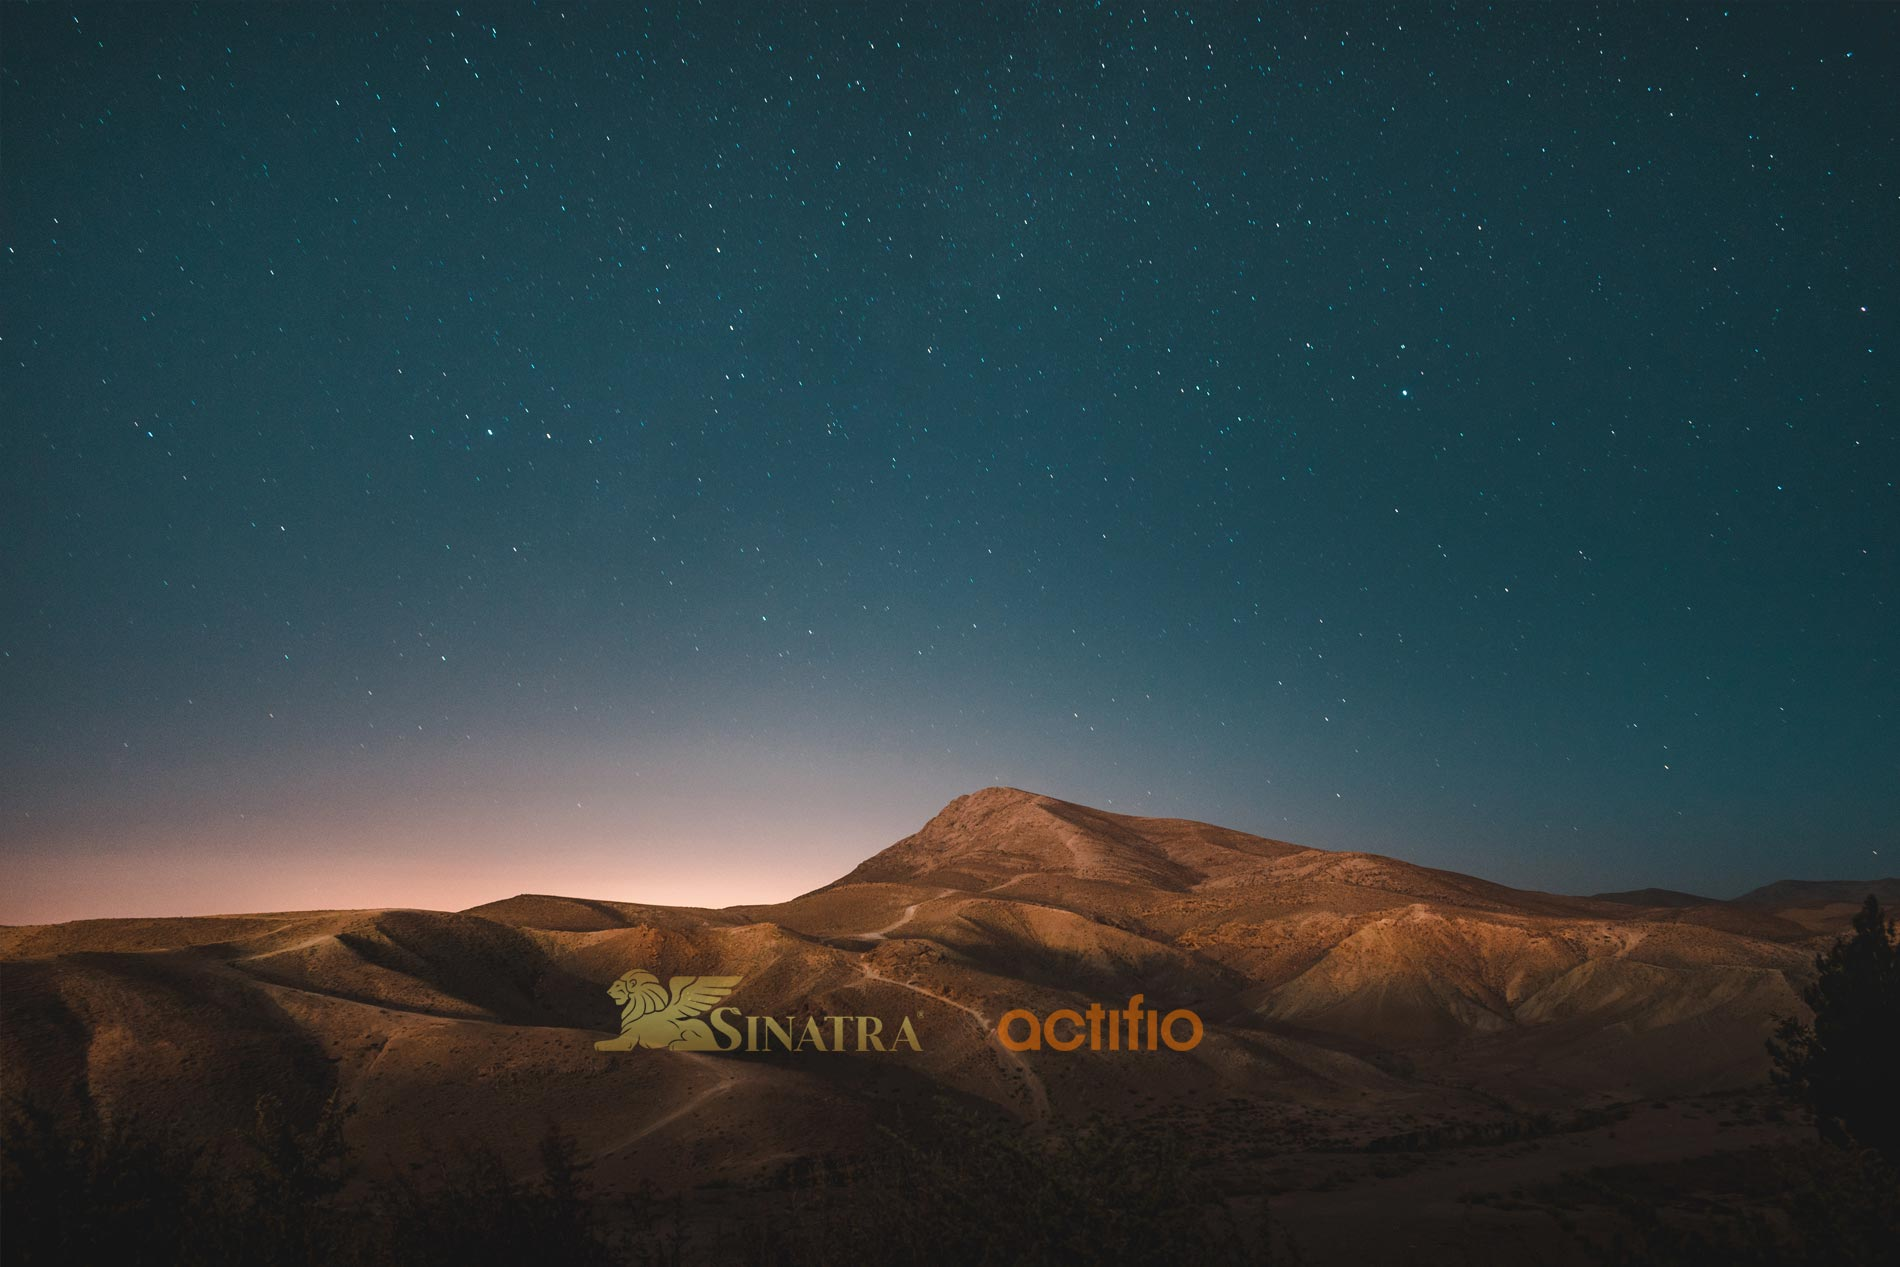
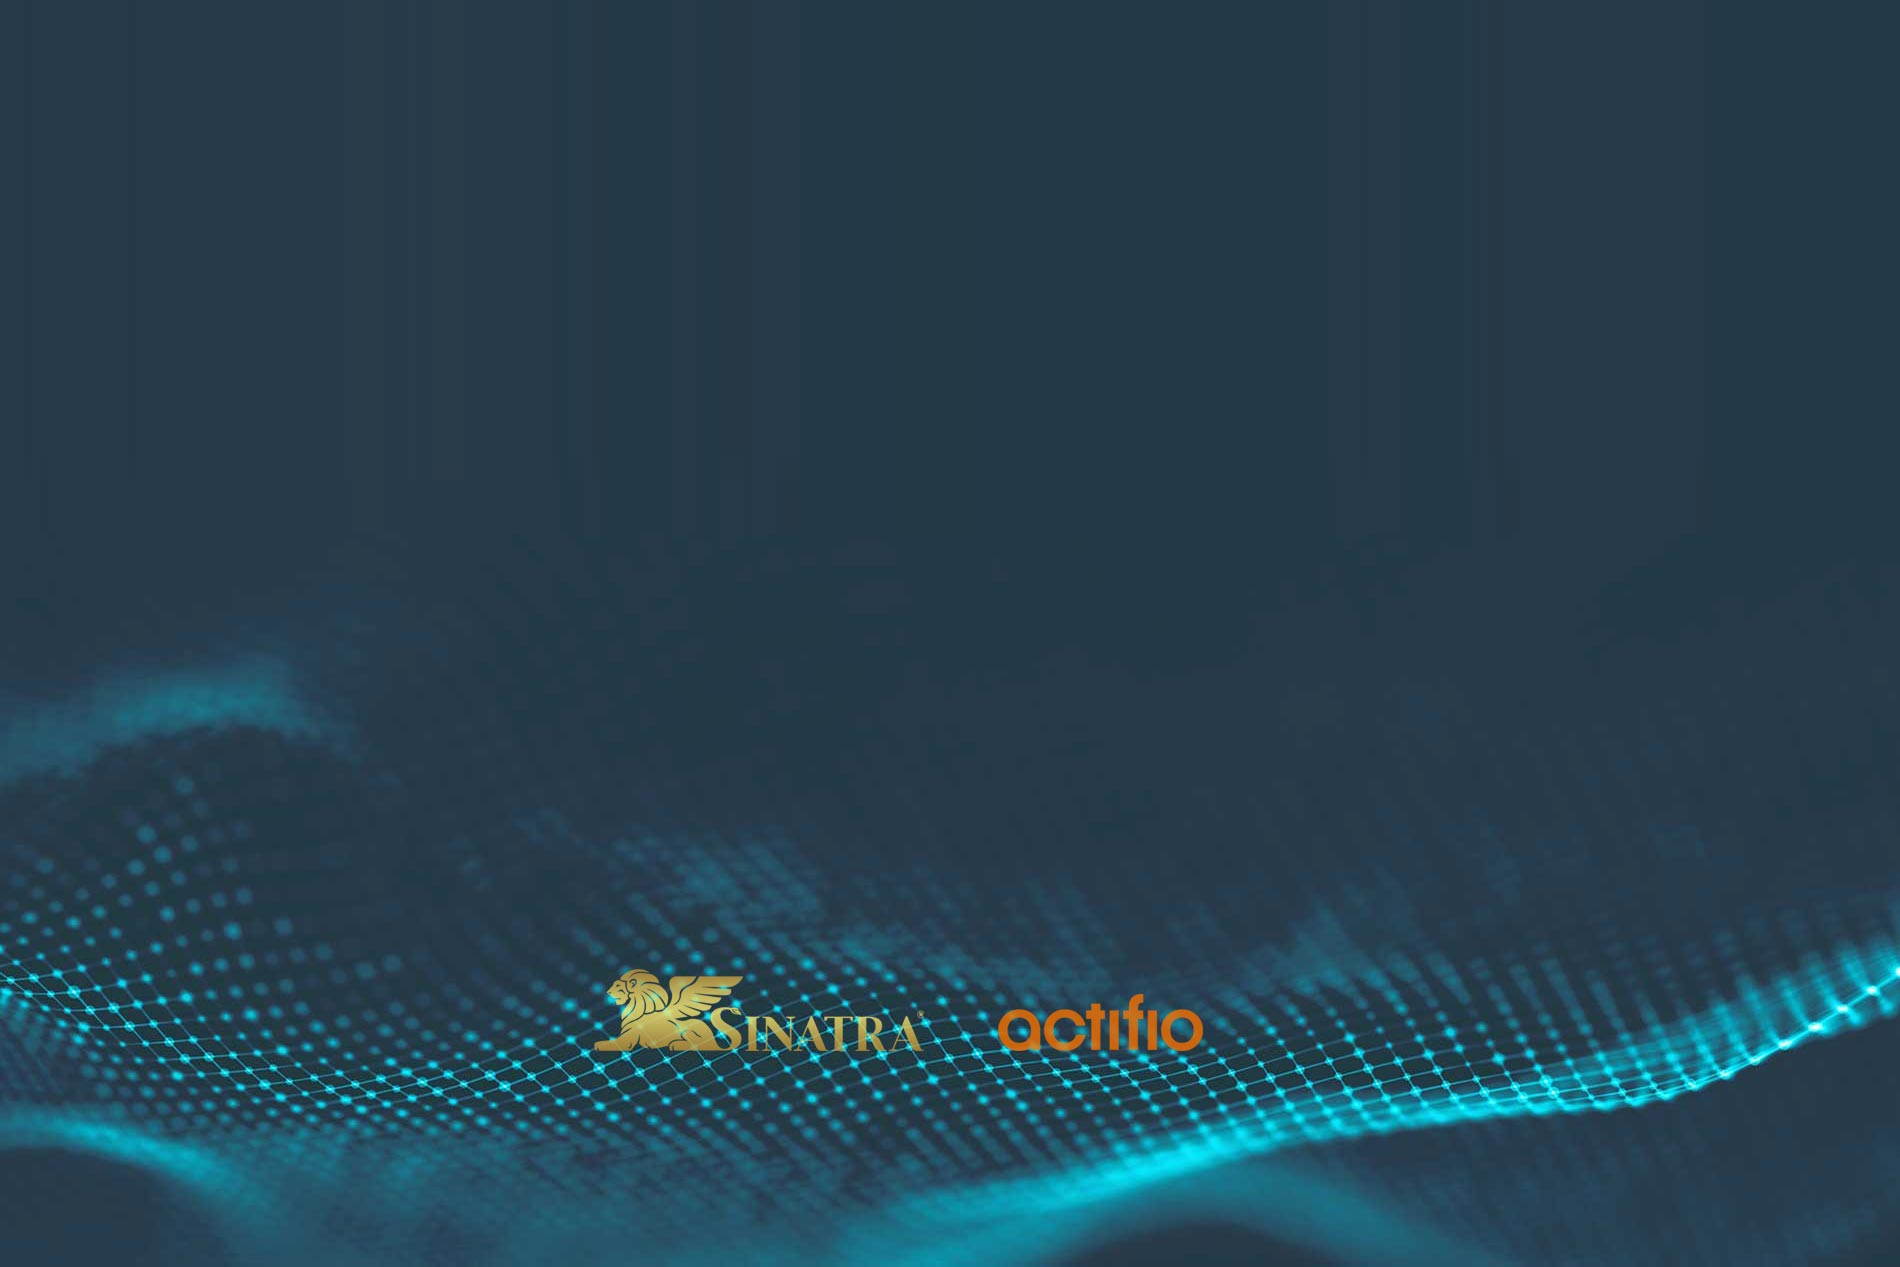
update to act

diff --git a/index.html b/index.html
@@ -71,6 +71,20 @@
         <div class="row">
           <div class="col-lg-10 mx-auto">
             <h1 class="text-uppercase">
+              <strong>Powering Multi-Cloud for Enterprise Data</strong>
+            </h1>
+            <p class="text-faded">Migrate, protect, develop, test, and analyze faster while reducing costs by 50% or more.</p>
+            <a class="btn btn-xl js-scroll-trigger" href="#update-actifio"><i class="fa fa-4x fa-chevron-down mb-3"></i></a>
+
+          </div>
+        </div>
+      </div>
+    </header>
+    <section class="bg-primary text-white text-center update-actifio" id="update-actifio">
+      <div class="container my-auto">
+        <div class="row">
+          <div class="col-lg-10 mx-auto">
+            <h1 class="text-uppercase text-center">
               <strong>Unleash<br/>the Power of Cloud</strong>
             </h1>
             <hr>
@@ -79,9 +93,10 @@
             <p class="text-faded mb-5">Data-as-a-Service solutions<br/>across all clouds from <a href="https://www.actifio.com" title="Actifio">Actifio</a> that first made it possible is putting now Middle East's customers at the center of the business by <a href="http://www.sinatrait.com" title="Sinatra IT Solutions">Sinatra</a>.</p>
             <a class="btn btn-xl js-scroll-trigger" href="#sinatrait"><i class="fa fa-4x fa-chevron-down mb-3"></i></a>
           </div>
+
         </div>
       </div>
-    </header>
+    </section>
     <section class="bg-dark text-white" id="sinatrait">
         <div class="container">
           <div class="row">

diff --git a/css/custom.css b/css/custom.css
@@ -72,3 +72,4 @@ opacity: .5;
 footer {
 padding: 2rem 0; font-size: small;border-top:1px solid #cccccc;
 }
+.update-actifio{background-image: url(../img/unleash-the-power-of-cloud.jpg);background-position: center bottom;    background-size: cover;}
